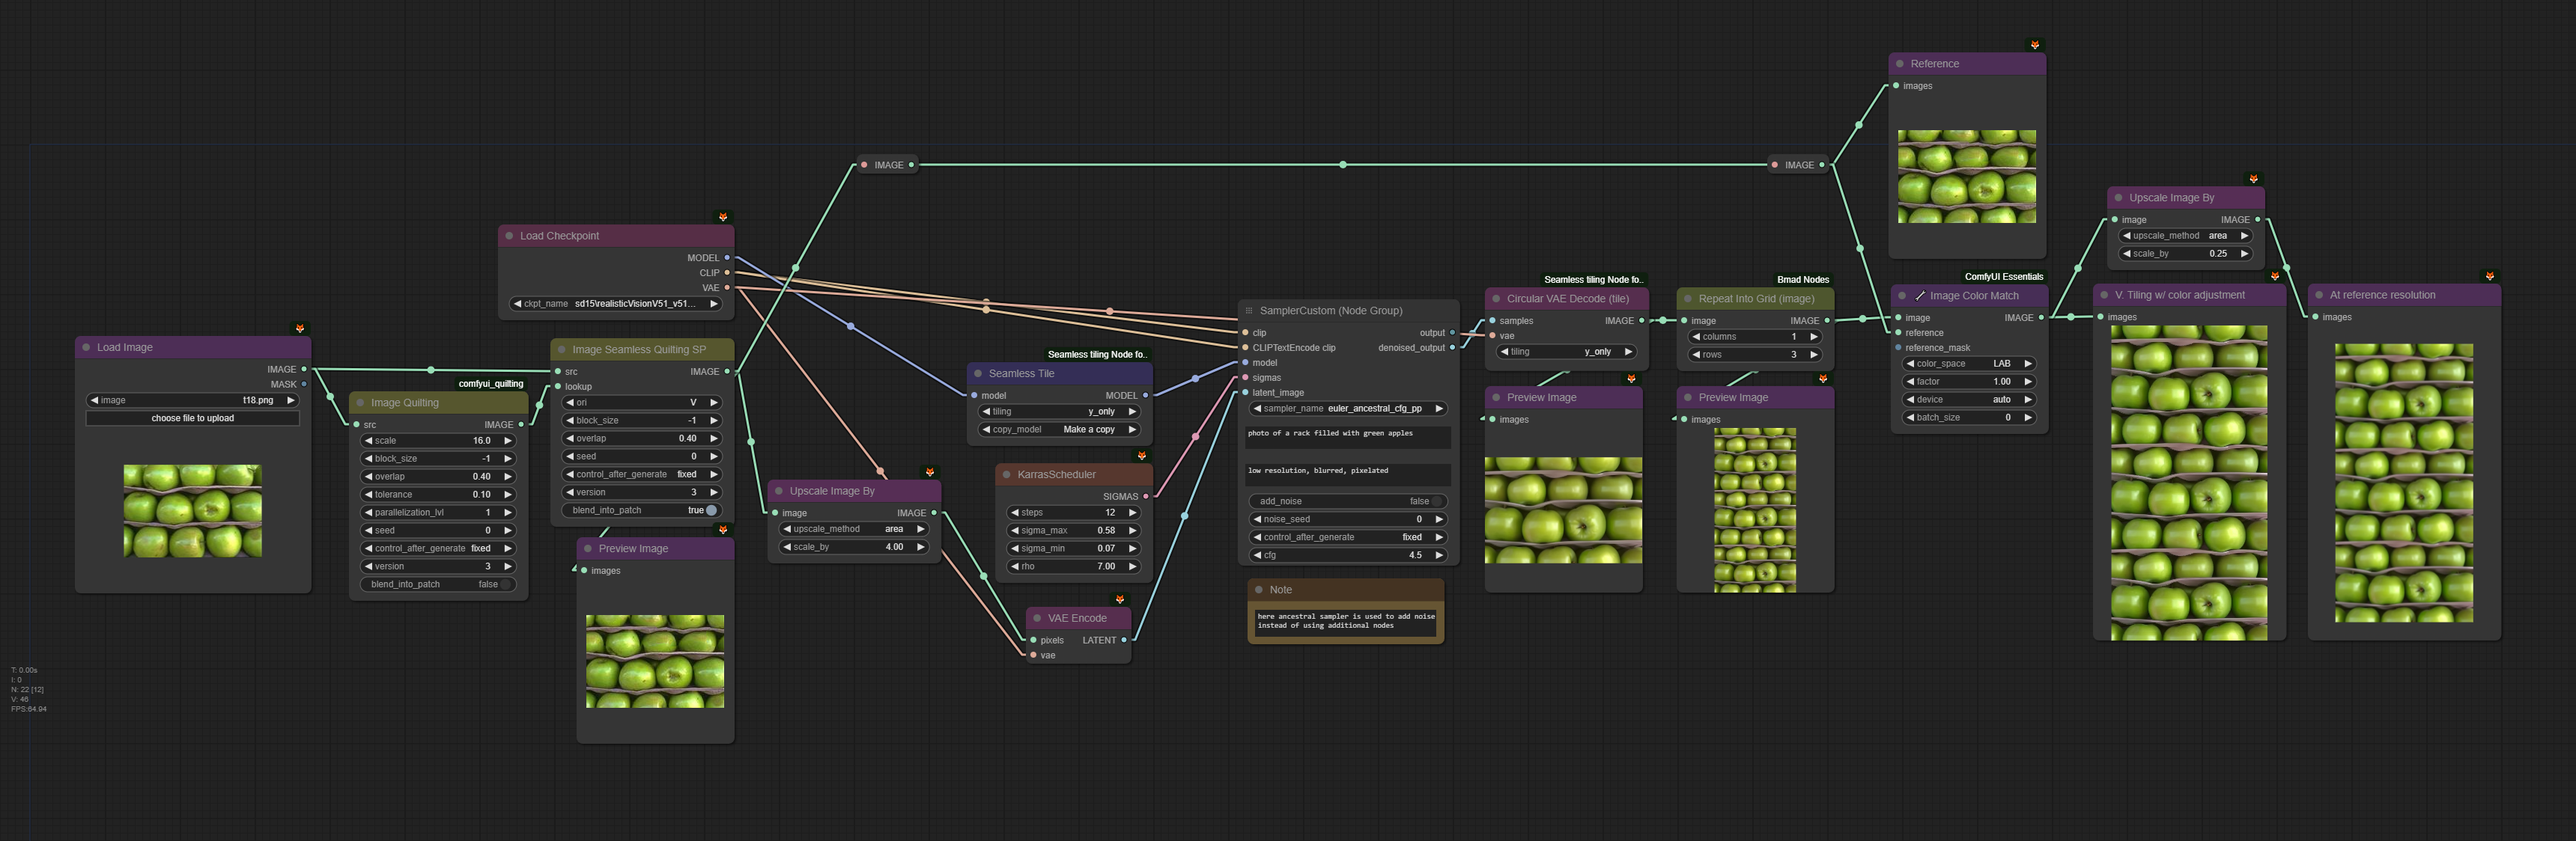
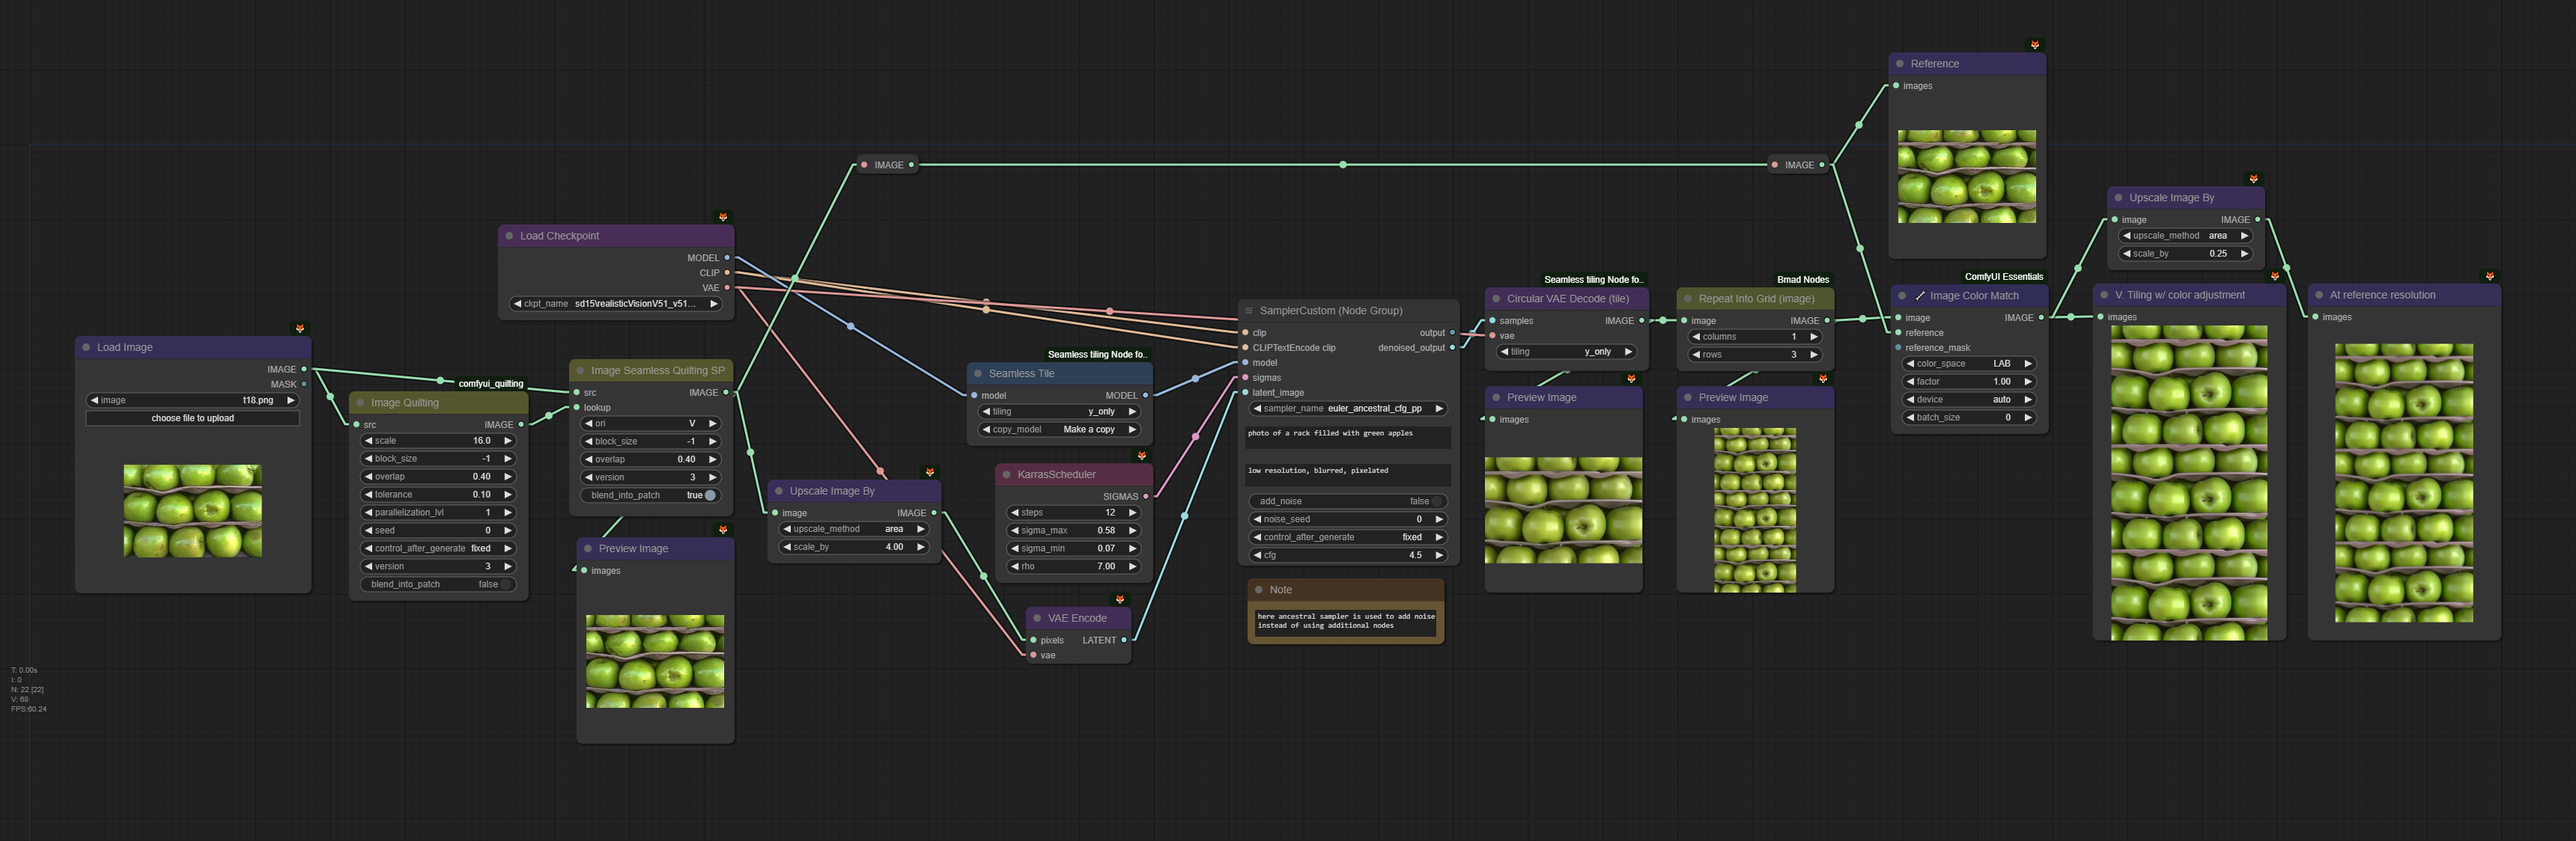
fix LatentMakeSeamlessSB; remove seed from arguments; update SP workflows; rename some workflows.
reasoning behind seed removal in SP nodes: the cases where seed changes output are so rare that will just confuse the users and occupy unnecessary space in the workflow.

diff --git a/nodes.py b/nodes.py
@@ -586,6 +586,7 @@ class ImageMakeSeamlessSB:
         inputs = get_quilting_shared_input_types()
         inputs.pop("parallelization_lvl")
         inputs.pop("tolerance")
+        inputs.pop("seed")
         inputs["version"][1]["min"] = 1
         inputs["overlap"][1]["max"] = .5
         return {
@@ -603,13 +604,13 @@ class ImageMakeSeamlessSB:
     FUNCTION = "compute"
     CATEGORY = NODES_CATEGORY
 
-    def compute(self, src, ori, block_size, overlap, seed, version, blend_into_patch, lookup=None):
+    def compute(self, src, ori, block_size, overlap, version, blend_into_patch, lookup=None):
         # note that src = lookup is the current algorithm policy when lookup is not provided.
         # this policy could change in the future, so do not apply it here too despite being idempotent.
         h, _ = src.shape[1:3]
         blk_size_upper_bound = block_size_upper_bound_for_seamless(ori, h, overlap)
         block_sizes = get_block_sizes(src, block_size, blk_size_upper_bound)
-        rng: numpy.random.Generator = np.random.default_rng(seed=seed)
+        rng: numpy.random.Generator = np.random.default_rng(seed=0)
 
         lookup_batch_size = lookup.shape[0] if lookup is not None else 0
         finish_event, t, shm_name, shm_jobs = setup_pbar_seamless_v2(ori, max(src.shape[0], lookup_batch_size))
@@ -734,13 +735,12 @@ class LatentMakeSeamlessSB:
             overlap = overlap_percentage_to_pixels(self.block_size, self.overlap)
             validate_seamless_args(self.ori, latent, lookup, self.block_size, overlap)
             gen_args = GenParams(self.block_size, overlap, 0, self.blend_into_patch, self.version)
-
-            return func(latent, gen_args, lookup, self.rng, UiCoordData(self.jobs_shm_name, job_id))
+            return func(latent, lookup, gen_args, self.rng, UiCoordData(self.jobs_shm_name, job_id))
 
     @classmethod
     def INPUT_TYPES(cls):
-        inputs = LatentQuilting.INPUT_TYPES()["required"]  #get_quilting_shared_input_types()
-        for to_remove in ["tolerance", "parallelization_lvl", "scale", "src"]:
+        inputs = LatentQuilting.INPUT_TYPES()["required"]
+        for to_remove in ["tolerance", "parallelization_lvl", "scale", "src", "seed"]:
             inputs.pop(to_remove)
         inputs["version"][1]["min"] = 1
         inputs["overlap"][1]["max"] = .5
@@ -759,10 +759,10 @@ class LatentMakeSeamlessSB:
     FUNCTION = "compute"
     CATEGORY = NODES_CATEGORY
 
-    def compute(self, src, ori, block_size, overlap, seed, version, blend_into_patch, lookup=None):
+    def compute(self, src, ori, block_size, overlap, version, blend_into_patch, lookup=None):
         src = src["samples"]
         lookup = lookup["samples"] if lookup is not None else None
-        rng: numpy.random.Generator = np.random.default_rng(seed=seed)
+        rng: numpy.random.Generator = np.random.default_rng(seed=0)
 
         lookup_batch_size = lookup.shape[0] if lookup is not None else 0
         finish_event, t, shm_name, shm_jobs = setup_pbar_seamless_v2(ori, max(src.shape[0], lookup_batch_size))
